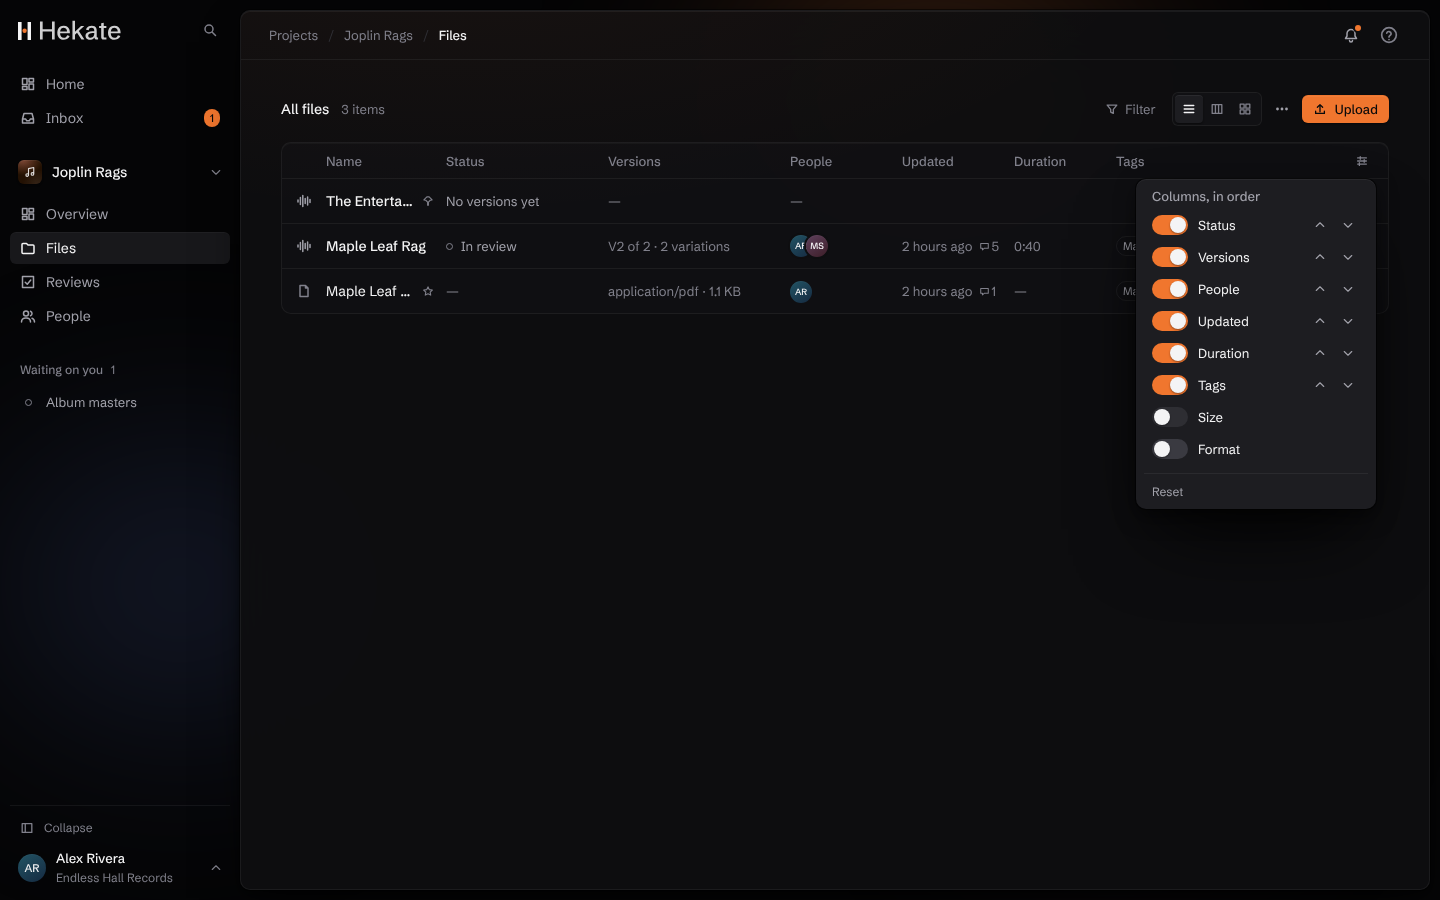
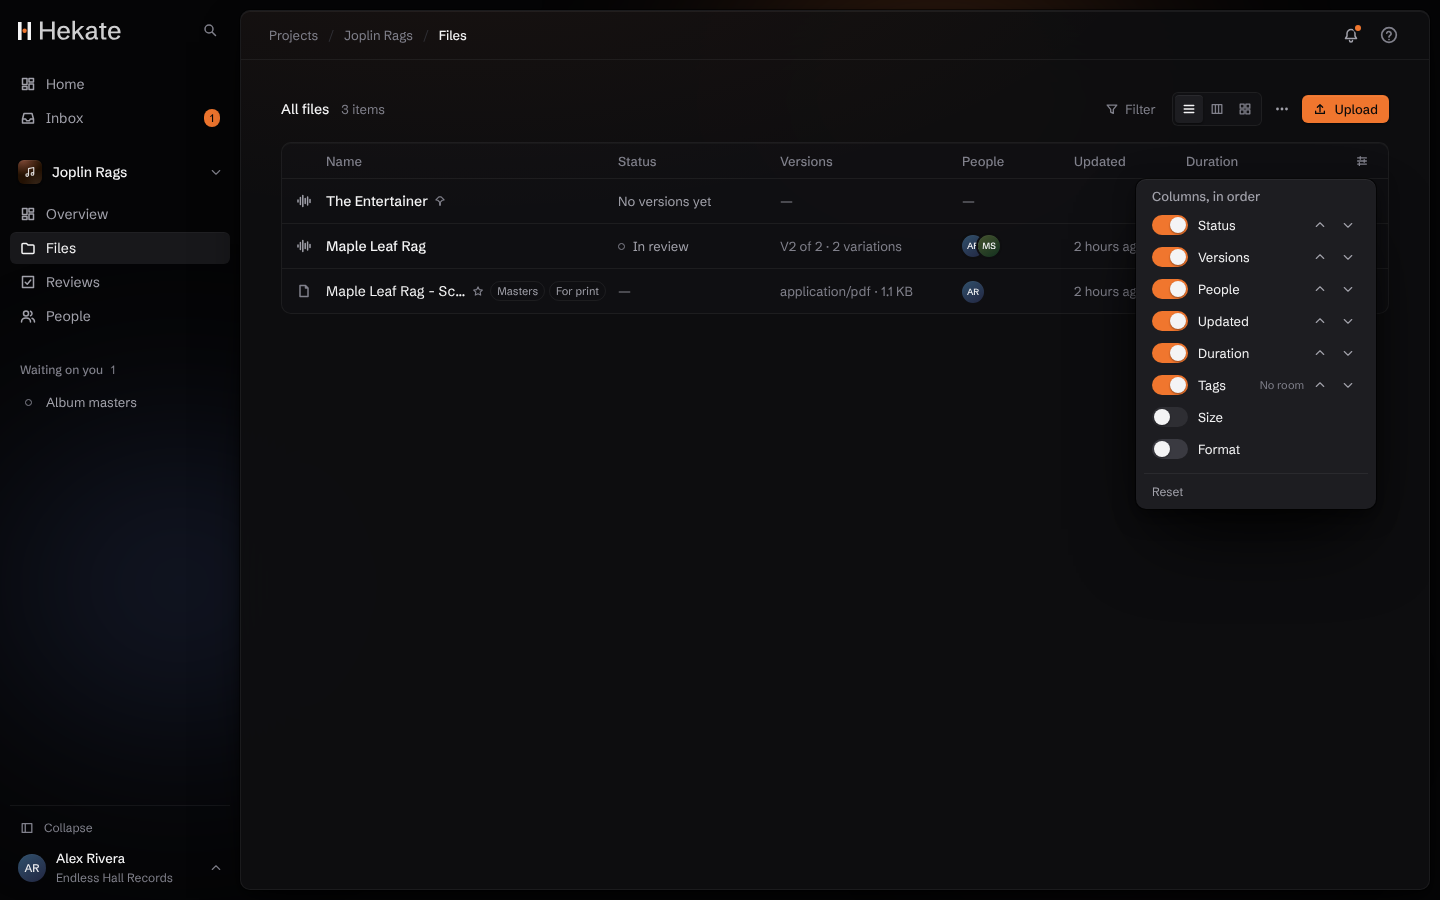
fix: retry never strands a file; columns fit the list; saves in order; long lists follow shifts
- A retry whose job the queue does not take puts that stage back to failed
  and says to try again, so the file is never left waiting for ever.
- Columns that do not fit the list's width are left off from the end of
  the member's order, as Linear does, rather than widening the page; the
  Columns menu says which have no room.
- Column layouts are saved one at a time, in order.
- A long list measures where it starts after every change above it, so
  uploads or filter chips appearing never leave a gap.

Part of #114

Claude-Session: https://claude.ai/code/session_015McpuV22robxh4tHA5c4P8

diff --git a/apps/web/src/components/file-browser.tsx b/apps/web/src/components/file-browser.tsx
@@ -17,8 +17,10 @@ import {
   type FormEvent,
   type KeyboardEvent,
   type ReactNode,
+  useCallback,
   useEffect,
   useLayoutEffect,
+  useReducer,
   useRef,
   useState,
 } from "react";
@@ -29,6 +31,7 @@ import {
   columnsFor,
   filtering,
   filterProject,
+  fitColumns,
   folderCount,
   freshPath,
   gridTemplate,
@@ -473,7 +476,20 @@ export function FileBrowser({
   const saveColumns = useFileColumns();
   /** Widths while a column edge is dragged; kept once it is let go. */
   const [dragging, setDragging] = useState<FileColumnLayout | null>(null);
-  const columns = dragging ?? savedColumns ?? defaultFileColumns;
+  const chosenColumns = dragging ?? savedColumns ?? defaultFileColumns;
+  /** How wide the list is, to leave off the columns that do not fit (as Linear does). */
+  const [listWidth, setListWidth] = useState<number | null>(null);
+  const watching = useRef<ResizeObserver | null>(null);
+  const listBox = useCallback((marker: HTMLDivElement | null) => {
+    watching.current?.disconnect();
+    const box = marker?.parentElement;
+    if (!box) return;
+    watching.current = new ResizeObserver(([entry]) =>
+      setListWidth(entry?.contentRect.width ?? null),
+    );
+    watching.current.observe(box);
+  }, []);
+  const columns = listWidth === null ? chosenColumns : fitColumns(chosenColumns, listWidth);
   const gridVars = { "--cols": gridTemplate(columns) } as CSSProperties;
   const names = { ...columnNames, versions: withTracks ? "Versions" : "Details" };
   const tagging = useTagMutations(projectId);
@@ -1359,6 +1375,7 @@ export function FileBrowser({
         />
       ) : view !== "grid" ? (
         <Card>
+          <div ref={listBox} />
           <div
             className={cn(
               rowGrid,
@@ -1368,12 +1385,13 @@ export function FileBrowser({
           >
             <span />
             <span>Name</span>
+            {/* Headings for the columns that fit; widths and choices work on all of them. */}
             {columns.map((c) => (
               <ColumnHeading
                 key={c.id}
                 id={c.id}
                 name={names[c.id]}
-                columns={columns}
+                columns={chosenColumns}
                 onResize={setDragging}
                 onResized={(next) => {
                   setDragging(null);
@@ -1381,7 +1399,12 @@ export function FileBrowser({
                 }}
               />
             ))}
-            <ColumnsMenu columns={columns} names={names} onChange={saveColumns.mutate} />
+            <ColumnsMenu
+              columns={chosenColumns}
+              shown={columns.map((c) => c.id)}
+              names={names}
+              onChange={saveColumns.mutate}
+            />
           </div>
           <Rows items={items} row={row} onKeyDown={onListKey} reveal={reveal} />
         </Card>
@@ -1700,13 +1723,22 @@ function Rows({
   const many = items.length >= VIRTUAL_FROM;
   /** How far down its scrolling area the list starts. */
   const [margin, setMargin] = useState(0);
+  const [, redraw] = useReducer((n: number) => n + 1, 0);
   const scroller = () => list.current?.closest("main") ?? null;
+  // Measured after every render, since what sits above the list (uploads, filter chips) can
+  // grow or shrink while it stays; and again when the window changes size.
   useLayoutEffect(() => {
     const area = list.current?.closest("main");
     if (!many || !list.current || !area) return;
-    setMargin(
-      list.current.getBoundingClientRect().top - area.getBoundingClientRect().top + area.scrollTop,
-    );
+    const next =
+      list.current.getBoundingClientRect().top - area.getBoundingClientRect().top + area.scrollTop;
+    if (Math.abs(next - margin) > 0.5) setMargin(next);
+  });
+  useEffect(() => {
+    if (!many) return;
+    const again = () => redraw();
+    window.addEventListener("resize", again);
+    return () => window.removeEventListener("resize", again);
   }, [many]);
   const virtual = useVirtualizer({
     count: many ? items.length : 0,

diff --git a/apps/server/src/routes/retry.ts b/apps/server/src/routes/retry.ts
@@ -1,6 +1,6 @@
 import { type Database, inOrg, schema } from "@hekate/db";
 import { zValidator } from "@hono/zod-validator";
-import { eq } from "drizzle-orm";
+import { eq, sql } from "drizzle-orm";
 import { Hono } from "hono";
 import { HTTPException } from "hono/http-exception";
 import { z } from "zod";
@@ -9,7 +9,7 @@ import { NotFound } from "../errors.ts";
 import type { ViewerVariables } from "../guests.ts";
 import type { Jobs } from "../jobs.ts";
 import { pageSourceOf } from "../media/pages.ts";
-import { retryPlan } from "../media/retry.ts";
+import { type RetryJob, retryPlan } from "../media/retry.ts";
 
 const { files } = schema;
 
@@ -55,8 +55,36 @@ export const fileRetryRoutes = (db: Database, jobs: Pick<Jobs, "send">) =>
           .where(inOrg(files, organisationId, eq(files.id, fileId)));
         return next;
       });
+      // A job the queue did not take (down, or the failed one not yet finished) would leave
+      // the file waiting for ever: put its stage back to failed, so it can be tried again.
+      const refused: RetryJob[] = [];
       for (const job of plan.jobs) {
-        await jobs.send(job, { organisationId, fileId }, { singletonKey: fileId });
+        const id = await jobs
+          .send(job, { organisationId, fileId }, { singletonKey: fileId })
+          .catch(() => null);
+        if (!id) refused.push(job);
+      }
+      if (refused.length) {
+        const analysis = refused.includes("media-analysis");
+        const stream = refused.some((j) => j !== "media-analysis");
+        await db
+          .update(files)
+          .set({
+            ...(stream
+              ? {
+                  streamStatus: sql`case when ${files.streamStatus} = 'pending' then 'failed'::stream_status else ${files.streamStatus} end`,
+                }
+              : {}),
+            ...(analysis
+              ? {
+                  analysisStatus: sql`case when ${files.analysisStatus} = 'pending' then 'failed'::stream_status else ${files.analysisStatus} end`,
+                }
+              : {}),
+          })
+          .where(inOrg(files, organisationId, eq(files.id, fileId)));
+        throw new HTTPException(503, {
+          message: "Preparing it again could not start; try again in a moment",
+        });
       }
       return c.json({ jobs: plan.jobs }, 202);
     },

diff --git a/apps/web/src/lib/browser.ts b/apps/web/src/lib/browser.ts
@@ -241,6 +241,23 @@ export function filterProject(
 export const gridTemplate = (columns: FileColumnLayout) =>
   ["20px", "minmax(0,1fr)", ...columns.map((c) => `${c.width}px`), "88px"].join(" ");
 
+/**
+ * The narrowest the list may be before it scrolls sideways: the icon, a readable name, each
+ * column, the actions, the gaps between them and the padding either side.
+ */
+export const listMinWidth = (columns: FileColumnLayout) =>
+  20 + 240 + columns.reduce((w, c) => w + c.width, 0) + 88 + 12 * (columns.length + 2) + 24;
+
+/**
+ * The columns that fit a list of the given width, in the member's order: those at the end are
+ * left off until the rest fit beside a readable name. The Columns menu still shows them all.
+ */
+export function fitColumns(columns: FileColumnLayout, width: number): FileColumnLayout {
+  const fitted = [...columns];
+  while (fitted.length > 0 && listMinWidth(fitted) > width) fitted.pop();
+  return fitted;
+}
+
 /** Show a column, at its usual width and in its usual place among those shown, or hide it. */
 export function toggleColumn(columns: FileColumnLayout, id: FileColumn): FileColumnLayout {
   if (columns.some((c) => c.id === id)) return columns.filter((c) => c.id !== id);

diff --git a/apps/server/src/app.test.ts b/apps/server/src/app.test.ts
@@ -2388,6 +2388,19 @@ describe.runIf(url)("api", () => {
         expect((await retry(s.engineer)).status).toBe(409);
         const outsider = await joinAs(s.owner, "outsider-retry@example.test");
         expect((await retry(outsider)).status).toBe(404);
+
+        // A queue that does not take the work leaves that stage failed, to be tried again.
+        await db
+          .update(schema.files)
+          .set({ streamStatus: "failed", analysisStatus: "failed" })
+          .where(eq(schema.files.id, s.mix));
+        failNextSend = true;
+        expect((await retry(s.engineer)).status).toBe(503);
+        const [after] = await db
+          .select({ stream: schema.files.streamStatus, analysis: schema.files.analysisStatus })
+          .from(schema.files)
+          .where(eq(schema.files.id, s.mix));
+        expect(after).toEqual({ stream: "failed", analysis: "pending" });
       });
 
       it("keeps each member's file columns for this workspace", async () => {

diff --git a/apps/web/src/components/file-columns.tsx b/apps/web/src/components/file-columns.tsx
@@ -30,10 +30,13 @@ export function ColumnsMenu({
   columns,
   names,
   onChange,
+  shown: fitted,
 }: {
   columns: FileColumnLayout;
   names: Record<FileColumn, string>;
   onChange: (columns: FileColumnLayout) => void;
+  /** The columns that fit the list now; the others chosen are left off for lack of room. */
+  shown?: FileColumn[];
 }) {
   const [open, setOpen, box] = usePopover();
   const shown = columns.map((c) => c.id);
@@ -70,6 +73,9 @@ export function ColumnsMenu({
                     onChange={() => onChange(toggleColumn(columns, id))}
                   />
                   <span className="ml-1.5 min-w-0 flex-1 truncate">{names[id]}</span>
+                  {on && fitted && !fitted.includes(id) && (
+                    <span className="shrink-0 text-[11px] text-ink-3">No room</span>
+                  )}
                   {on && (
                     <>
                       <button

diff --git a/apps/web/src/lib/browser.test.ts b/apps/web/src/lib/browser.test.ts
@@ -9,12 +9,14 @@ import {
   filterProject,
   filtersFrom,
   filtersTo,
+  fitColumns,
   folderCount,
   freshPath,
   gridTemplate,
   indexMarks,
   itemsIn,
   latestFile,
+  listMinWidth,
   movableTo,
   moveColumn,
   noFilters,
@@ -189,6 +191,12 @@ describe("columns", () => {
 
   it("lays out the grid from the columns shown", () => {
     expect(gridTemplate([...cols])).toBe("20px minmax(0,1fr) 150px 100px 88px");
+    // 20 + 240 + 250 + 88, four gaps of 12 and 24 of padding.
+    expect(listMinWidth([...cols])).toBe(670);
+    // What does not fit is left off from the end, never the page made wider.
+    expect(fitColumns([...cols], 670)).toEqual(cols);
+    expect(fitColumns([...cols], 600).map((c) => c.id)).toEqual(["status"]);
+    expect(fitColumns([...cols], 100)).toEqual([]);
   });
 
   it("adds a column in its usual place, and takes it away", () => {

diff --git a/apps/web/src/lib/queries.ts b/apps/web/src/lib/queries.ts
@@ -1742,6 +1742,8 @@ export function useFileColumns() {
   const client = useQueryClient();
   const key = fileColumnsQuery.queryKey;
   return useMutation({
+    // One save at a time, in order, so an earlier layout never lands after a later one.
+    scope: { id: "file-columns" },
     mutationFn: async (columns: FileColumnLayout) => {
       const res = await api.me["file-columns"].$put({ json: { columns } });
       if (!res.ok) await json(res);
